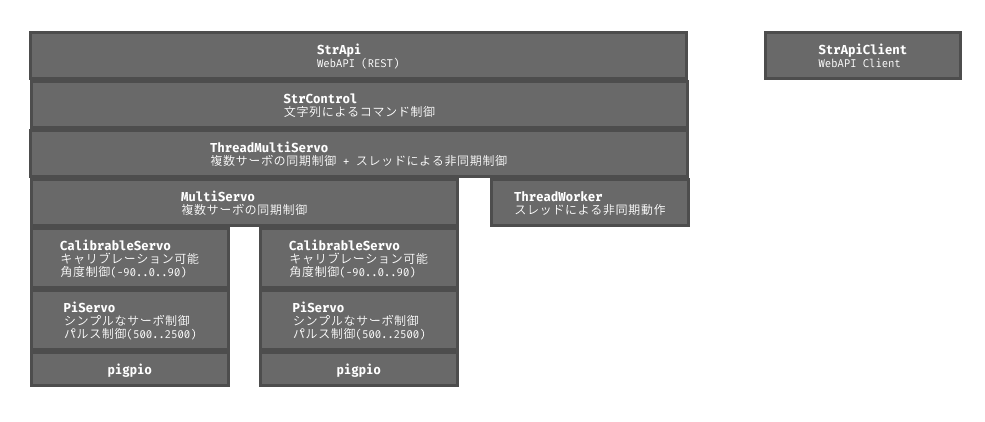
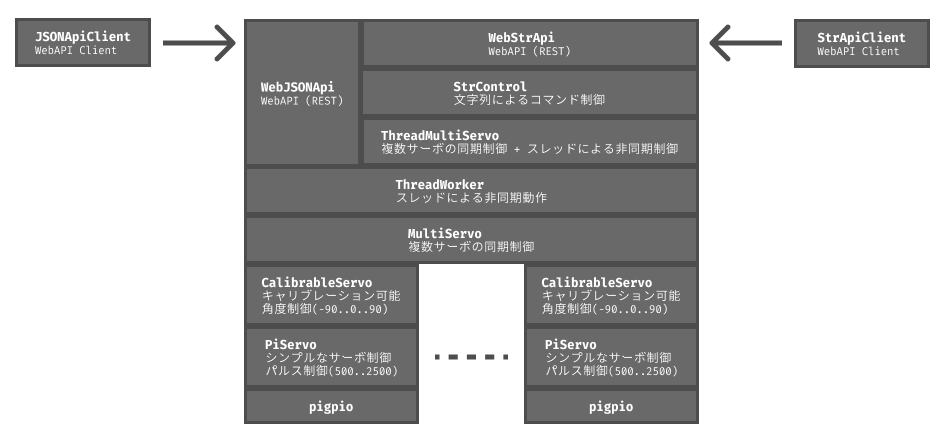
UPD: README.md

diff --git a/README.md b/README.md
@@ -275,7 +275,15 @@ GPIO26 (37) (38) GPIO20
 ### --- 2. 公式サイト情報
 [Raspberry Pi Pinout](https://pinout.xyz/)
 
-## == APIリファレンス
+
+## ソフトウェア内部情報
+
+### === ソフトウェア・アーキテクチャ
+
+![Architecture](docs/SoftwareArchitecture.png)
+
+
+### === APIリファレンス ===
 
 より詳しいクラスやメソッドの仕様については、以下のコマンドを実行してください。
 
@@ -283,7 +291,7 @@ GPIO26 (37) (38) GPIO20
 uv run python -m pydoc piservo0
 ```
 
-### --- 他のプロジェクトから依存ライブラリとして、本プロジェクトを参照する場合の例
+### === 他のプロジェクトから依存ライブラリとして、本プロジェクトを参照する場合の例 ===
 
 `pyproject.toml`
 ```
